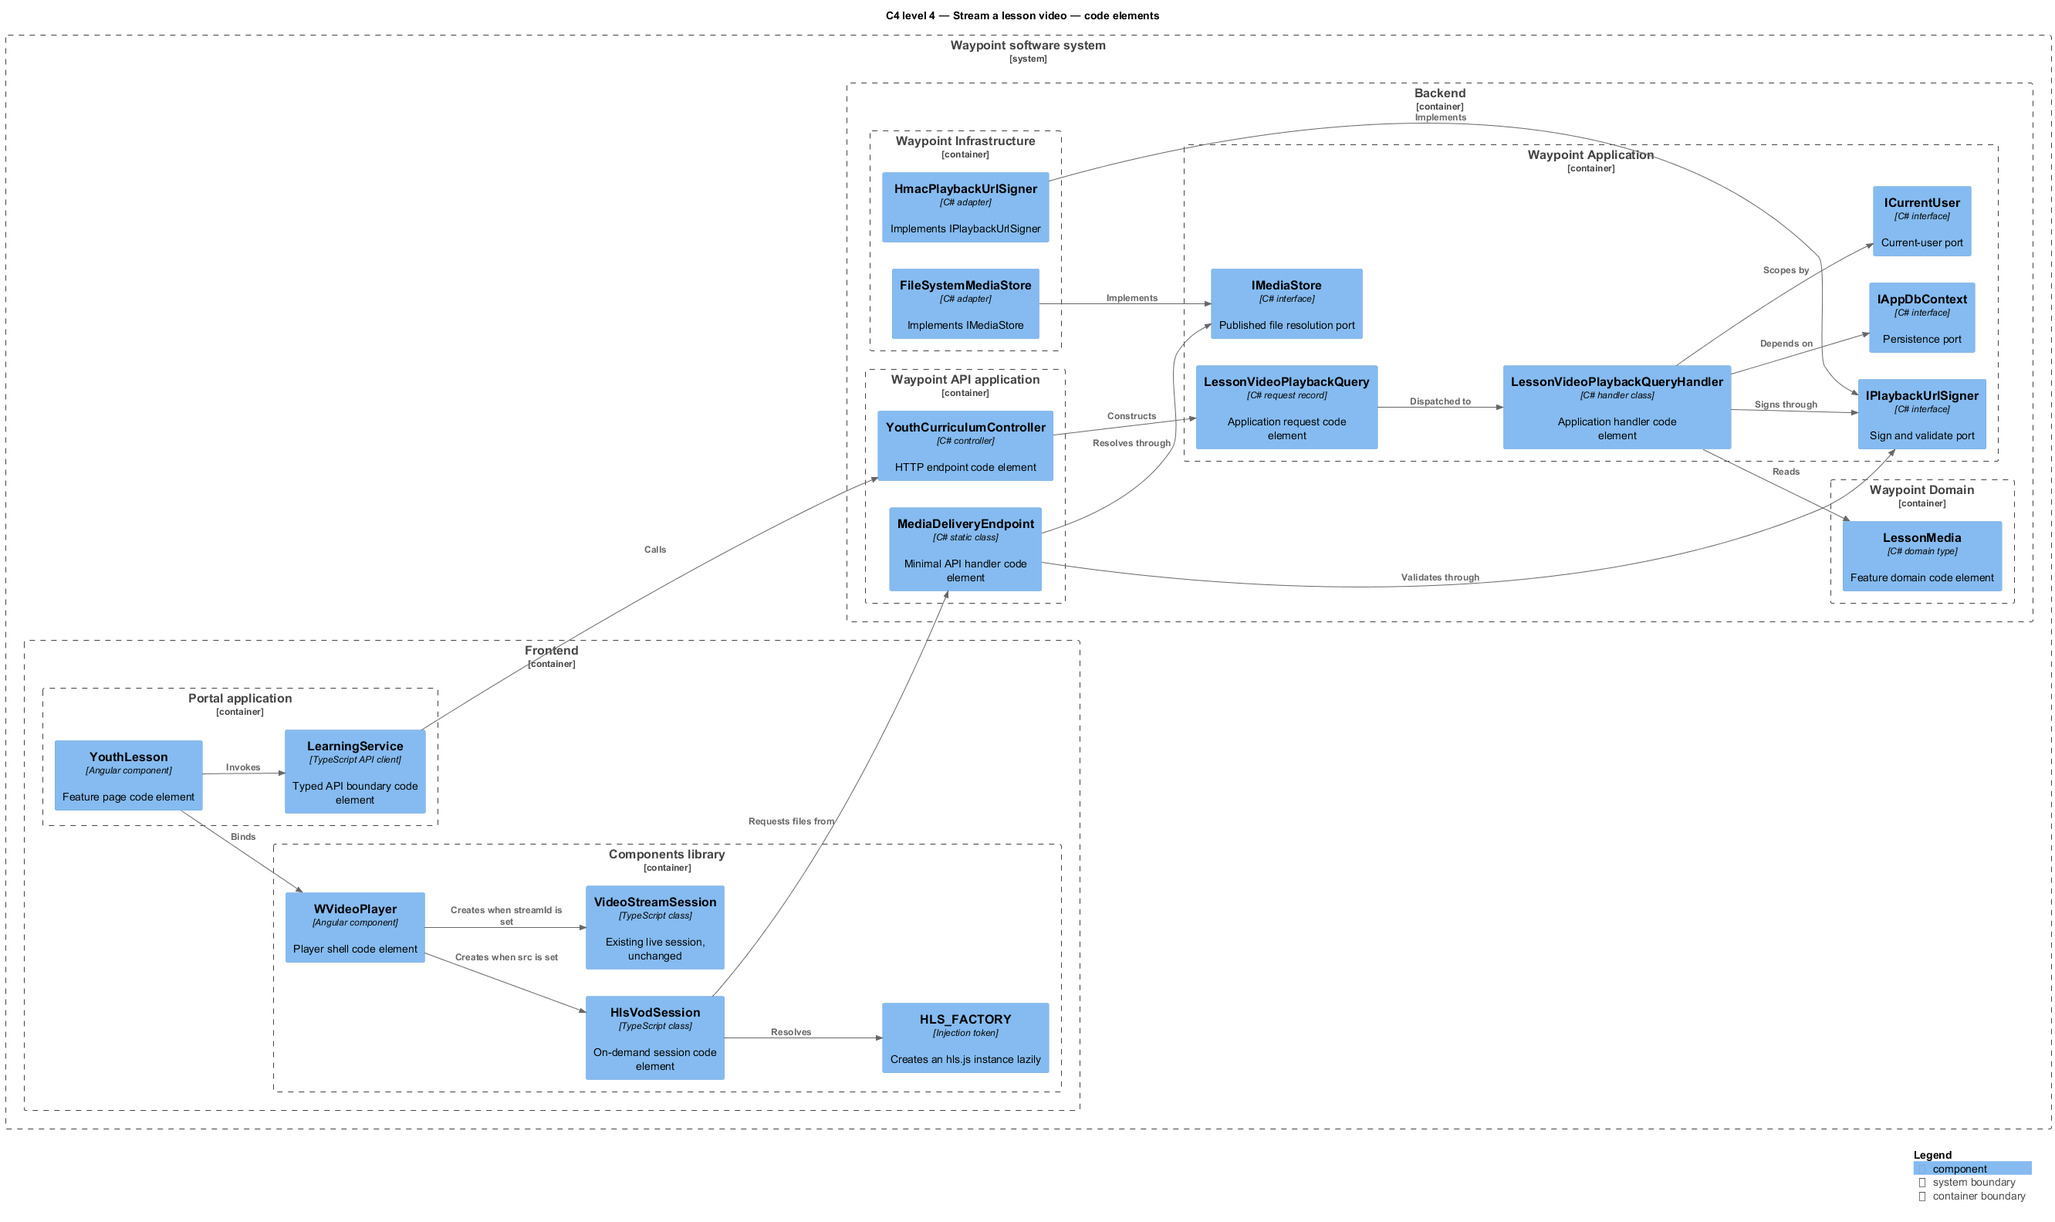
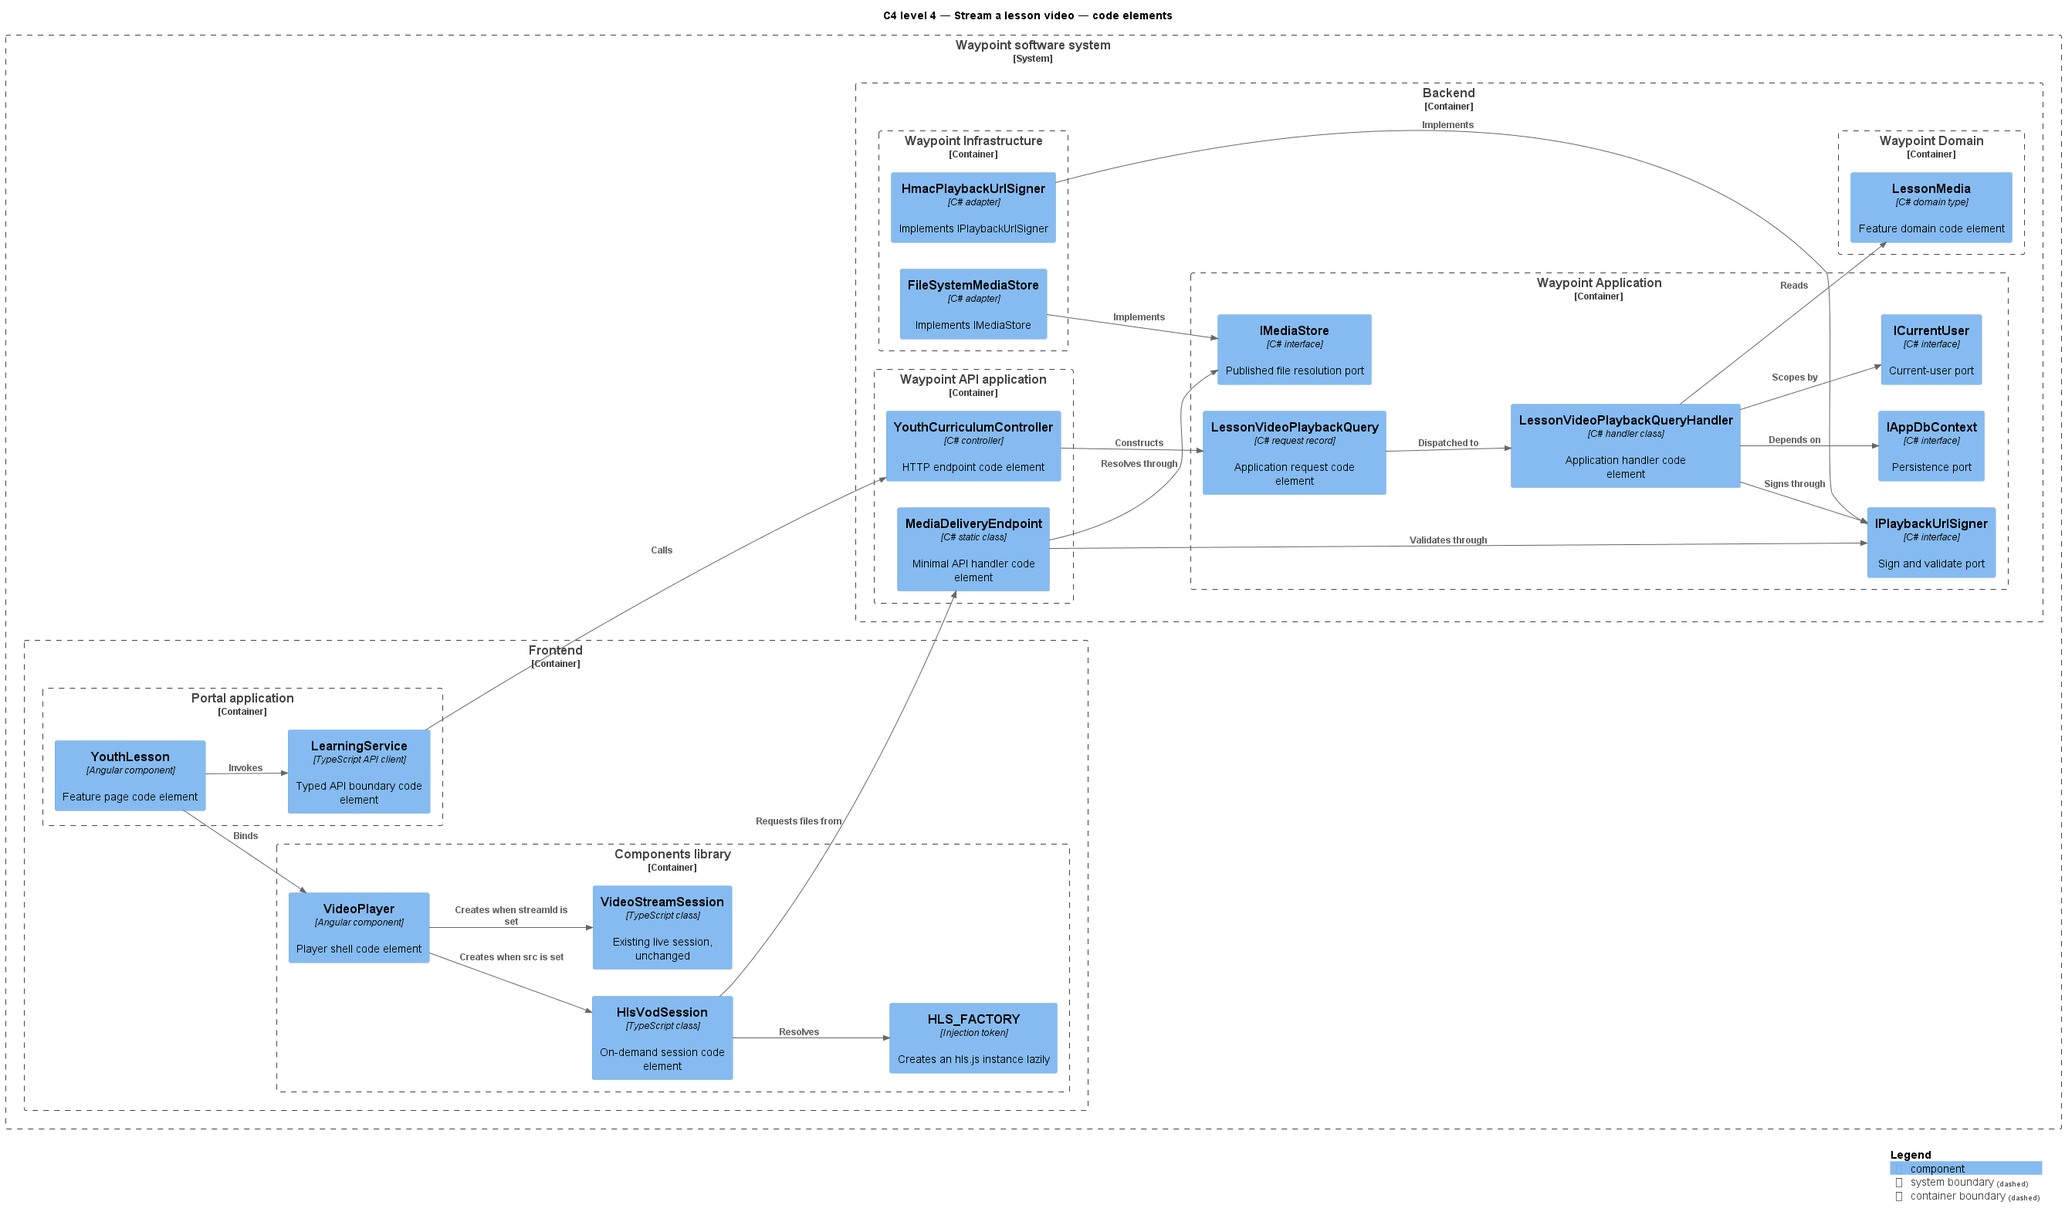
docs(design): align video designs with what was built
The chunk endpoint hands the body to a command as a stream rather than
calling the upload store directly, ffmpeg names init files init_N.mp4, and
the delivery endpoint's path whitelist is the exact pattern in the code.

diff --git a/docs/detailed-designs/curriculum-authoring/upload-lesson-video/README.md b/docs/detailed-designs/curriculum-authoring/upload-lesson-video/README.md
@@ -35,7 +35,7 @@ A source link identifies an existing realization. An unlinked name identifies a 
 | --- | --- | --- |
 | Frontend page | [`CurriculumBuilder`](../../../../frontend/projects/admin/src/lib/curriculum/curriculum-builder.ts) | Offers the "Attach media" action, slices the chosen file into chunks, sends chunks with bounded parallelism, shows upload and transcode progress, and offers retry for a failed transcode. |
 | Frontend API boundary | [`CurriculumAuthoringService`](../../../../frontend/projects/api/src/lib/services/curriculum-authoring.service.ts) | Adds `startVideoUpload()`, `uploadVideoChunk()`, `videoUploadStatus()`, `completeVideoUpload()`, and `retryVideoTranscode()` beside the existing `uploadLessonMedia()`. All calls use Angular `HttpClient`, so the [`authInterceptor`](../../../../frontend/projects/auth/src/lib/auth-interceptor.ts) refreshes an expired access token during a multi-hour upload. |
-| API transport | `LessonVideoUploadsController` *(planned boundary)*<br>[`LessonsController`](../../../../backend/src/Waypoint.Api/Controllers/CurriculumAuthoring/LessonsController.cs) | Exposes the upload-session endpoints under the `EditCurriculum` policy ([`Policies`](../../../../backend/src/Waypoint.Api/Authorization/Policies.cs)). The chunk endpoint reads `Request.Body` as `application/octet-stream` and hands it to `IUploadStore`; chunk bytes never enter a MediatR message. The existing `LessonsController` keeps the document path. |
+| API transport | `LessonVideoUploadsController` *(planned boundary)*<br>[`LessonsController`](../../../../backend/src/Waypoint.Api/Controllers/CurriculumAuthoring/LessonsController.cs) | Exposes the upload-session endpoints under the `EditCurriculum` policy ([`Policies`](../../../../backend/src/Waypoint.Api/Authorization/Policies.cs)). The chunk endpoint reads `Request.Body` as `application/octet-stream` and passes it, as a stream and never as a byte array, to `ReceiveVideoChunkCommand`, whose handler validates the chunk and writes it through `IUploadStore`. The existing `LessonsController` keeps the document path. |
 | Application slice | `StartVideoUploadCommand`, `StartVideoUploadCommandHandler`, `StartVideoUploadCommandValidator` *(planned boundary)*<br>`VideoUploadStatusQuery`, `VideoUploadStatusQueryHandler` *(planned boundary)*<br>`CompleteVideoUploadCommand`, `CompleteVideoUploadCommandHandler` *(planned boundary)*<br>`RetryVideoTranscodeCommand`, `RetryVideoTranscodeCommandHandler` *(planned boundary)*<br>`LessonVideoUploadPolicy` *(planned boundary)*<br>[`LessonMediaUploadPolicy`](../../../../backend/src/Waypoint.Application/CurriculumAuthoring/Curriculum/LessonMediaUploadPolicy.cs)<br>[`DeleteLessonMediaCommandHandler`](../../../../backend/src/Waypoint.Application/CurriculumAuthoring/Curriculum/DeleteLessonMediaCommandHandler.cs) | Coordinates the use case: validates the lesson, size limit, and free disk at start; reports the accepted-chunk bitmap; on completion verifies size and the `ftyp` signature, probes the file, creates `LessonMedia` and `VideoTranscodeJob` in one unit of work, and audits `LessonVideoUploaded`. Delete moves the published ladder to `trash/` after commit. |
 | Domain state | [`LessonMedia`](../../../../backend/src/Waypoint.Domain/CurriculumAuthoring/LessonMedia.cs) *(extended)*<br>`VideoStatus` *(planned boundary)*<br>`VideoUploadSession` *(planned boundary)*<br>`VideoTranscodeJob` *(planned boundary)*<br>[`Lesson`](../../../../backend/src/Waypoint.Domain/CurriculumAuthoring/Lesson.cs) | `LessonMedia` gains `VideoStatus` (`None`, `Queued`, `Processing`, `Ready`, `Failed`), `DurationSeconds`, `Width`, `Height`, `ProgressPercent`, and `FailureCode`; `Content` stays `null` for streamed video. `VideoUploadSession` holds `LessonId`, `ExpectedBytes`, `ChunkSizeBytes`, `ReceivedChunks`, `CreatedAt`, `ExpiresAt`. `VideoTranscodeJob` holds `MediaId`, `Status`, `AttemptCount`, `LeaseId`, `LeaseUntil`, `StartedAt`, `LastProgressAt`, `LastError`. |
 | Infrastructure and shared ports | `IUploadStore`, `IMediaStore`, `IVideoTranscoder` *(planned boundary)*<br>`FileSystemUploadStore`, `FileSystemMediaStore`, `FfmpegVideoTranscoder` *(planned boundary)*<br>`VideoTranscodeWorker`, `VideoTranscodeProcessor` *(planned boundary)*<br>`FakeVideoTranscoder` *(planned boundary, Testing only)*<br>[`OutboundEmailWorker`](../../../../backend/src/Waypoint.Infrastructure/OutboundEmailWorker.cs)<br>[`OutboundEmailProcessor`](../../../../backend/src/Waypoint.Infrastructure/OutboundEmailProcessor.cs)<br>[`InfrastructureStartupValidator`](../../../../backend/src/Waypoint.Infrastructure/InfrastructureStartupValidator.cs)<br>[`IAppDbContext`](../../../../backend/src/Waypoint.Application/Shared/Abstractions/IAppDbContext.cs)<br>[`IAuditLogger`](../../../../backend/src/Waypoint.Application/Shared/Abstractions/IAuditLogger.cs)<br>[`IAfterCommitDispatcher`](../../../../backend/src/Waypoint.Application/Shared/Abstractions/IAfterCommitDispatcher.cs)<br>[`IClock`](../../../../backend/src/Waypoint.Application/Shared/Abstractions/IClock.cs) | `IUploadStore` writes a chunk at `index × chunkSize` in `{root}/uploads/{uploadId}.part`. `IMediaStore` owns the `sources/`, `work/`, `hls/`, and `trash/` layout and the atomic move between them. `IVideoTranscoder` exposes `ProbeAsync` and `TranscodeAsync`. The worker and processor copy the leased-queue pattern of the email worker. `InfrastructureStartupValidator` gains checks for `Media:RootPath`, `Media:FfmpegPath`, and `Media:FfprobePath` when `Media:Enabled` is true. |
@@ -54,7 +54,7 @@ A source link identifies an existing realization. An unlinked name identifies a 
 
 ### Rendition ladder
 
-`FfmpegVideoTranscoder` builds one command line from the probe result and runs `ffmpeg` once: the source is decoded once and split into every rendition whose height is less than or equal to the rotated source height. Each rendition is H.264 High profile with stereo AAC at 128 kbit/s, normalized to 30 frames per second and `yuv420p`, with a forced key frame every 2 s and `-sc_threshold 0` so key frames align across renditions. Segments are CMAF fragmented MP4 of 6 s (`-hls_time 6 -hls_segment_type fmp4 -hls_flags independent_segments -hls_playlist_type vod`). Output is written to `{root}/work/{mediaId}/` as `master.m3u8`, `{rendition}/index.m3u8`, `{rendition}/init.mp4`, `{rendition}/seg_00001.m4s …`, and `poster.jpg`; on success the directory moves atomically to `{root}/hls/{mediaId}/`.
+`FfmpegVideoTranscoder` builds one command line from the probe result and runs `ffmpeg` once: the source is decoded once and split into every rendition whose height is less than or equal to the rotated source height. Each rendition is H.264 High profile with stereo AAC at 128 kbit/s, normalized to 30 frames per second and `yuv420p`, with a forced key frame every 2 s and `-sc_threshold 0` so key frames align across renditions. Segments are CMAF fragmented MP4 of 6 s (`-hls_time 6 -hls_segment_type fmp4 -hls_flags independent_segments -hls_playlist_type vod`). Output is written to `{root}/work/{mediaId}/` as `master.m3u8`, `{rendition}/index.m3u8`, `{rendition}/init_N.mp4`, `{rendition}/seg_NNNNN.m4s …`, and `poster.jpg`; on success the directory moves atomically to `{root}/hls/{mediaId}/`.
 
 | Rendition | Video bitrate | Max rate | Buffer |
 | --- | ---: | ---: | ---: |
@@ -69,7 +69,7 @@ A 3-hour source yields about 1,800 segments per rendition. With the `veryfast` p
 
 - `CurriculumBuilder.attachVideo(file)` calls `startVideoUpload()`, then sends chunks with at most 3 in flight, then calls `completeVideoUpload()`; on page reload it calls `videoUploadStatus()` and resumes from the missing indexes.
 - `LessonVideoUploadsController.Start()` sends `StartVideoUploadCommand`; the handler checks the lesson exists and is not archived, rejects files above `Media:MaxSourceBytes`, checks free space of about 1.5 × the expected size through `IMediaStore`, and persists `VideoUploadSession`.
-- `LessonVideoUploadsController.PutChunk(uploadId, index)` validates `index` against the session, enforces `[RequestSizeLimit(ChunkSizeBytes + 65536)]`, streams `Request.Body` through `IUploadStore.WriteChunkAsync()` at the chunk offset, and marks the index received. A repeated index overwrites identical bytes, so retries are idempotent.
+- `LessonVideoUploadsController.PutChunk(uploadId, index)` validates `index` against the session, enforces `[RequestSizeLimit(ChunkSizeBytes + 65536)]`, sends `ReceiveVideoChunkCommand`, whose handler requires `Content-Length` to equal the expected chunk size and streams the body through `IUploadStore.WriteChunkAsync()` at the chunk offset, and marks the index received. A repeated index overwrites identical bytes, so retries are idempotent.
 - `LessonVideoUploadsController.Complete()` sends `CompleteVideoUploadCommand`; the handler verifies that every index is present and the file length equals `ExpectedBytes`, applies `LessonMediaUploadPolicy.HasValidSignature()` on the first bytes, calls `IVideoTranscoder.ProbeAsync()` to reject non-video or corrupt files at once, moves the file to `sources/{mediaId}.mp4`, creates `LessonMedia` (`VideoStatus = Queued`, `Url = null`) and `VideoTranscodeJob`, saves in one unit of work, and audits `LessonVideoUploaded`.
 - `VideoTranscodeWorker.ExecuteAsync()` ticks every 5 s outside the Testing environment and calls `VideoTranscodeProcessor.RunOnceAsync()`.
 - `VideoTranscodeProcessor.RunOnceAsync()` claims one job whose lease is empty or expired with a conditional update (5 min lease), sets `VideoStatus = Processing`, runs `IVideoTranscoder.TranscodeAsync()`, and extends `LeaseUntil` and `ProgressPercent` from the progress callback every 60 s. On success it moves `work/{mediaId}` to `hls/{mediaId}`, stores duration, width, and height, and sets `Ready`. On failure or on a hard timeout of `max(30 min, 3 × duration)` it kills the process tree, deletes the work directory, records `LastError` and `FailureCode`, and sets `Failed` after `AttemptCount` reaches 2. Host shutdown kills the process, releases the lease, and leaves `AttemptCount` unchanged.

diff --git a/docs/detailed-designs/learning-experience/stream-lesson-video/README.md b/docs/detailed-designs/learning-experience/stream-lesson-video/README.md
@@ -33,7 +33,7 @@ A source link identifies an existing realization. An unlinked name identifies a 
 | Layer | Components, types, and classes | Responsibility |
 | --- | --- | --- |
 | Frontend page | [`YouthLesson`](../../../../frontend/projects/youth/src/lib/lesson/youth-lesson.ts) | Renders three media branches: `w-video-player` when `videoStatus` is `Ready`; a "video is being prepared" card when `Queued` or `Processing`; the existing `<video [src]>` with its retry control for media without a ladder. Requests the playback URL when the Ready branch renders and again when the player reports an expired token. |
-| Frontend player | [`w-video-player`](../../../../frontend/projects/components/src/lib/video-player/w-video-player.ts) *(extended)*<br>`HlsVodSession` *(planned boundary)*<br>`HLS_FACTORY` *(planned boundary)*<br>[`VideoStreamSession`](../../../../frontend/projects/components/src/lib/video-player/video-stream-session.ts)<br>[`MediaSourcePipeline`](../../../../frontend/projects/components/src/lib/video-player/media-source-pipeline.ts) | The component gains `src` and `poster` inputs and derives its mode: `src` set selects on-demand playback through `HlsVodSession`; `streamId` set keeps the existing live path through `VideoStreamSession` and `MediaSourcePipeline`, which stay unchanged. `HlsVodSession` attaches the `<video>` element to native HLS when `canPlayType('application/vnd.apple.mpegurl')` is non-empty, otherwise to an hls.js instance created through the `HLS_FACTORY` injection token, which dynamically imports the hls.js light build with `enableWorker: false`. On-demand mode adds the `playing` state, a seek range input with `aria-valuetext`, elapsed and total time, a quality label from the active level (hidden under native HLS), Left and Right arrow seeking of 5 s, and the `poster`. Captions, volume, fullscreen, keyboard focus handling, the announcer, i18n strings, and theming carry over. The live badge is hidden in on-demand mode. |
+| Frontend player | [`VideoPlayer`](../../../../frontend/projects/components/src/lib/video-player/video-player.ts) *(extended)*<br>`HlsVodSession` *(planned boundary)*<br>`HLS_FACTORY` *(planned boundary)*<br>[`VideoStreamSession`](../../../../frontend/projects/components/src/lib/video-player/video-stream-session.ts)<br>[`MediaSourcePipeline`](../../../../frontend/projects/components/src/lib/video-player/media-source-pipeline.ts) | The component gains `src` and `poster` inputs and derives its mode: `src` set selects on-demand playback through `HlsVodSession`; `streamId` set keeps the existing live path through `VideoStreamSession` and `MediaSourcePipeline`, which stay unchanged. `HlsVodSession` attaches the `<video>` element to native HLS when `canPlayType('application/vnd.apple.mpegurl')` is non-empty, otherwise to an hls.js instance created through the `HLS_FACTORY` injection token, which dynamically imports the hls.js light build with `enableWorker: false`. On-demand mode adds the `playing` state, a seek range input with `aria-valuetext`, elapsed and total time, a quality label from the active level (hidden under native HLS), Left and Right arrow seeking of 5 s, and the `poster`. Captions, volume, fullscreen, keyboard focus handling, the announcer, i18n strings, and theming carry over. The live badge is hidden in on-demand mode. |
 | Frontend API boundary | [`LearningService`](../../../../frontend/projects/api/src/lib/services/learning.service.ts) | Adds `lessonVideoPlayback(lessonId, mediaId)` returning `{ url, expiresAt, durationSeconds, posterUrl }` beside the existing `lesson()` call. [`YouthLesson` model](../../../../frontend/projects/api/src/lib/models/learning/curriculum.ts) gains `videoStatus` and `durationSeconds` on its media item. |
 | API transport | [`YouthCurriculumController`](../../../../backend/src/Waypoint.Api/Controllers/LearningExperience/YouthCurriculumController.cs) *(extended)*<br>[`LessonMediaController`](../../../../backend/src/Waypoint.Api/Controllers/CurriculumAuthoring/LessonMediaController.cs) *(extended)*<br>`MediaDeliveryEndpoint` *(planned boundary)* | `GET api/me/lessons/{id}/media/{mediaId}/playback` under the `YouthParticipation` policy issues the youth playback URL. `GET api/lesson-media/{id}/playback` issues the same for administrators and mentors previewing a lesson. `MediaDeliveryEndpoint` is one anonymous minimal-API route, `GET /api/media/{token}/{mediaId:guid}/{**path}`, mapped in [`Program.cs`](../../../../backend/src/Waypoint.Api/Program.cs); it never redirects. |
 | Application slice | `LessonVideoPlaybackQuery`, `LessonVideoPlaybackQueryHandler` *(planned boundary)*<br>[`LessonQueryHandler`](../../../../backend/src/Waypoint.Application/LearningExperience/YouthCurriculum/LessonQueryHandler.cs) *(extended)*<br>[`CurriculumProgressCalculator`](../../../../backend/src/Waypoint.Application/LearningExperience/YouthCurriculum/CurriculumProgressCalculator.cs)<br>[`LessonMediaFileQueryHandler`](../../../../backend/src/Waypoint.Application/CurriculumAuthoring/Curriculum/LessonMediaFileQueryHandler.cs) | The playback handler loads the media, requires `VideoStatus == Ready`, applies the same access rule as the file query (youth through `EnsureLessonAccessibleAsync`, administrators and mentors allowed, other roles forbidden), and asks `IPlaybackUrlSigner` for a URL. `LessonQueryHandler` projects `VideoStatus` and `DurationSeconds` into [`LessonMediaView`](../../../../backend/src/Waypoint.Application/LearningExperience/YouthCurriculum/LessonQuery.cs). |
@@ -53,13 +53,13 @@ A source link identifies an existing realization. An unlinked name identifies a 
 
 1. Validate the token signature and expiry in constant time.
 2. Require that the `mediaId` inside the token equals the `mediaId` in the route.
-3. Accept `path` only when it matches `^[a-z0-9]+(/[a-z0-9_]+)?\.(m3u8|m4s|mp4|jpg)$` and its resolved full path starts with `{root}/hls/{mediaId}/`.
+3. Accept `path` only when it matches `^(master\.m3u8|poster\.jpg|[a-z0-9]{3,8}/(index\.m3u8|init(_[0-9]{1,3})?\.mp4|seg_[0-9]{5}\.m4s))$` and its resolved full path starts with `{root}/hls/{mediaId}/`.
 4. Return `Results.File(fullPath, contentType, enableRangeProcessing: true, lastModified, entityTag)`, which sends the file through `SendFileAsync` and handles `Range`, `If-Range`, `If-None-Match`, `If-Modified-Since`, 206, 304, and 416.
 
 | File class | Content type | Cache-Control |
 | --- | --- | --- |
 | `master.m3u8`, `{rendition}/index.m3u8` | `application/vnd.apple.mpegurl` | `private, max-age=300` |
-| `{rendition}/init.mp4` | `video/mp4` | `private, max-age=31536000, immutable` |
+| `{rendition}/init_N.mp4` | `video/mp4` | `private, max-age=31536000, immutable` |
 | `{rendition}/seg_*.m4s` | `video/iso.segment` | `private, max-age=31536000, immutable` |
 | `poster.jpg` | `image/jpeg` | `private, max-age=31536000, immutable` |
 
@@ -75,7 +75,7 @@ The portal document carries no Content Security Policy today; `SecurityHeadersMi
 - `YouthCurriculumController.Playback(id, mediaId)` applies the `YouthParticipation` policy and sends `LessonVideoPlaybackQuery`.
 - `LessonVideoPlaybackQueryHandler.Handle()` loads the media with a no-tracking projection, applies `EnsureLessonAccessibleAsync` for youth, requires `Ready`, and returns `IPlaybackUrlSigner.Sign(mediaId, lifetime)` together with `DurationSeconds` and the poster URL built from the same token.
 - `HlsVodSession.attach(src)` selects native HLS or hls.js, loads the master playlist, and forwards `loadedmetadata`, `timeupdate`, `waiting`, `playing`, `ended`, and `error` events into the component's state machine; hls.js `LEVEL_SWITCHED` updates the quality label.
-- `MediaDeliveryEndpoint.Handle(token, mediaId, path)` validates and serves as described above. hls.js and Safari resolve `{rendition}/index.m3u8`, `init.mp4`, and `seg_*.m4s` against the URL of the playlist that listed them, so every request carries the token path segment.
+- `MediaDeliveryEndpoint.Handle(token, mediaId, path)` validates and serves as described above. hls.js and Safari resolve `{rendition}/index.m3u8`, `init_N.mp4`, and `seg_*.m4s` against the URL of the playlist that listed them, so every request carries the token path segment.
 - On an hls.js fragment or level load error with HTTP 404 after the token expiry, or on a native HLS `error` with the same cause, `HlsVodSession` emits `tokenExpired`; `YouthLesson` requests a fresh playback URL, the session calls `loadSource()` with it, and restores `currentTime`.
 - Media load failure for any other reason falls through to the existing failed-media state with the retry control, which repeats the playback request.
 
